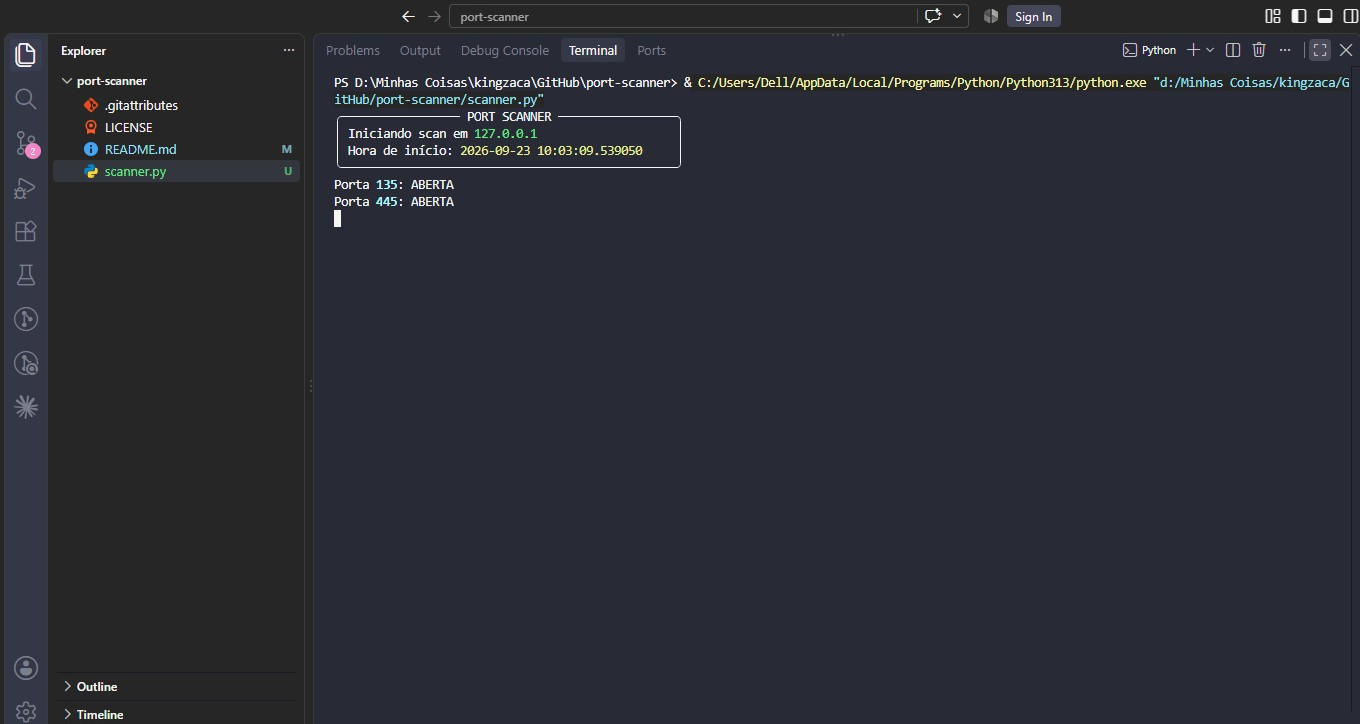
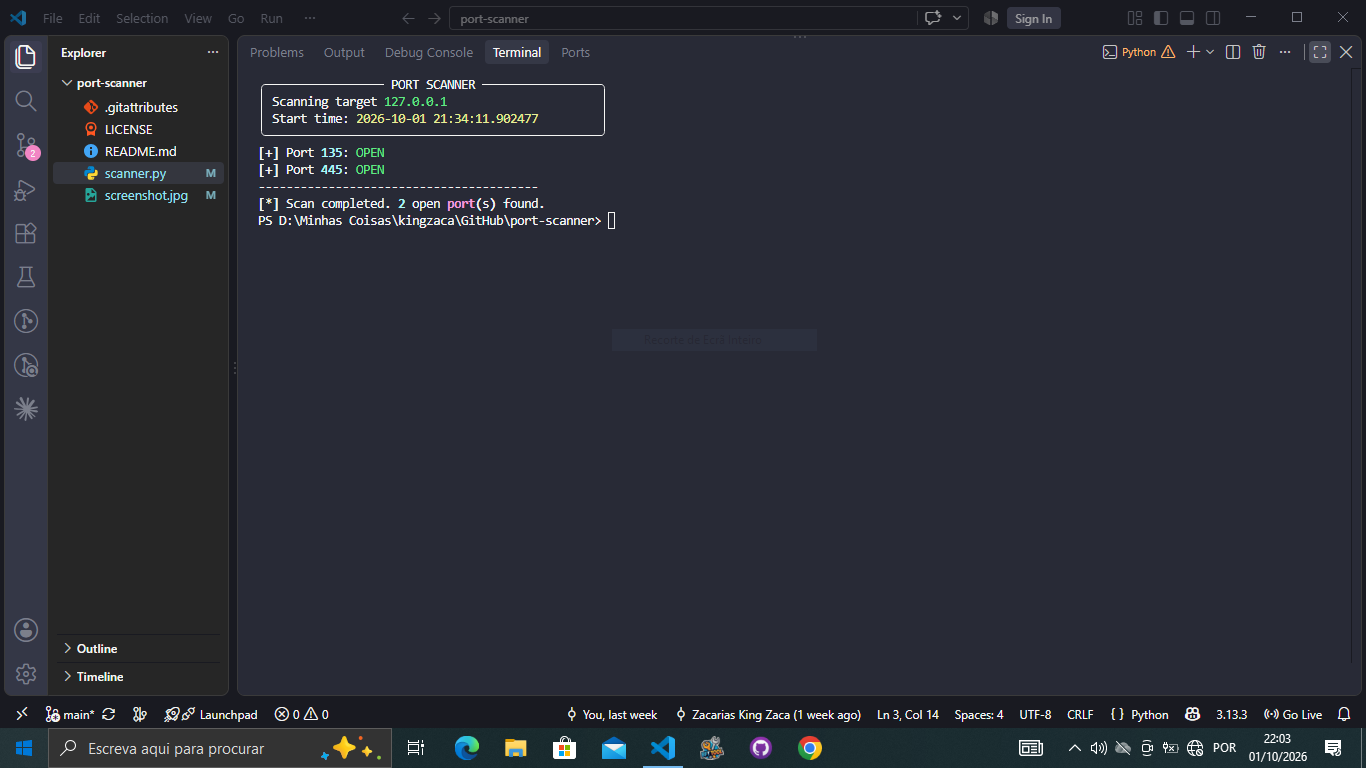
novo

diff --git a/scanner.py b/scanner.py
@@ -1,26 +1,37 @@
 import socket
-import  sys
+import sys
 from rich import print
 from rich.panel import Panel
 from datetime import datetime
 
-target = sys.argv[1] if len(sys.argv) > 1 else "127.0.0.1" 
-conteudo = (f"Iniciando scan em [green]{target}[/]")
-conteudo += (f"\nHora de início: [yellow]{datetime.now()}[/]")
-print(Panel(conteudo, title="PORT SCANNER", width=50))
+"""
+TCP Port Scanner
+Author: Zacarias Eduardo Joao
+Description: Simple TCP port scanner for 1-1024 range
+Usage: python port_scanner.py <target_ip>
+"""
 
+target = sys.argv[1] if len(sys.argv) > 1 else "127.0.0.1"
+
+header = f"Scanning target [green]{target}[/]"
+header += f"\nStart time: [yellow]{datetime.now()}[/]"
+print(Panel(header, title="PORT SCANNER", width=50))
+
+open_ports = 0
 try:
-    for porta in range(1, 1025):
+    for port in range(1, 1025):
         s = socket.socket(socket.AF_INET, socket.SOCK_STREAM)
         s.settimeout(0.3)
-        resultado = s.connect_ex((target, porta))
-        
-        if resultado == 0:
-            print(f"Porta {porta}: ABERTA")
+        result = s.connect_ex((target, port))
+
+        if result == 0:
+            print(f"[+] Port {port}: [green]OPEN[/]")
+            open_ports += 1
         s.close()
 
 except KeyboardInterrupt:
-    print("\nScan cancelado.")
+    print("\n[!] Scan cancelled by user.")
 
 print("-" * 40)
-print("Scan finalizado.")
+print(f"[*] Scan completed. {open_ports} open port(s) found.")
+
